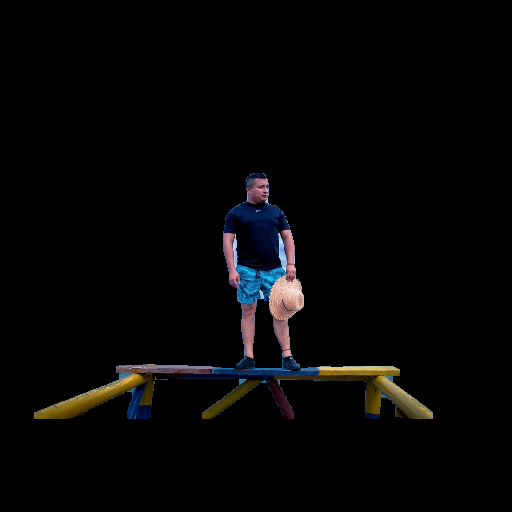
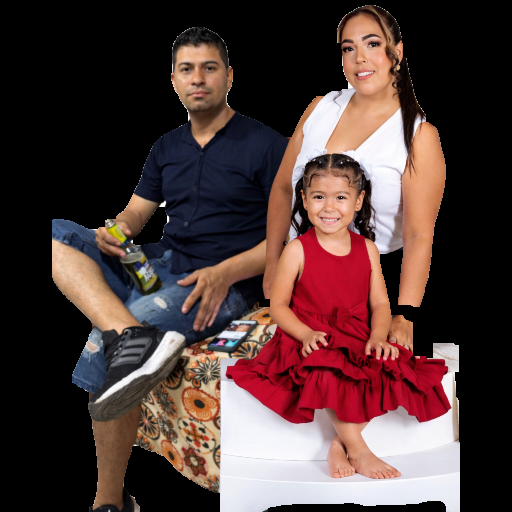
Image preprocessing was added to handle the image input request and resizing before it enters the neural network. Currently, we've created a system to ensure this preprocessing is the same one we'll use to create the images for training the network.

diff --git a/src/preprocessing.py b/src/preprocessing.py
@@ -1,15 +1,49 @@
 import  os
 import cv2
 import numpy as np
+import tkinter as tk
+from tkinter import filedialog
 from segment_anything import sam_model_registry, SamPredictor
+
+#Request a ticket
+# Ocultar ventana principal de tkinter
+root = tk.Tk()
+root.withdraw()
+
+# Abrir explorador de archivos
+INPUT_IMAGE = filedialog.askopenfilename(
+    title="Selecciona una imagen",
+    filetypes=[("Imágenes", "*.png *.jpg *.jpeg")]
+)
+if not INPUT_IMAGE:
+    print("No se seleccionó ninguna imagen.")
+    exit()
+
+# Cargar imagen
+image = cv2.imread(INPUT_IMAGE)
+if image is None:
+    print("Error al leer la imagen.")
+    exit()
+print("Imagen cargada:", INPUT_IMAGE)
+
+# OUTPUT
+OUTPUT_DIR = "data/input_segmentation/"
+os.makedirs(OUTPUT_DIR, exist_ok=True)
+
+filename = "foto.png"
+output_path = os.path.join(OUTPUT_DIR, filename)
+cv2.imwrite(output_path, image) 
+
 
 # Paths definition
 CHECKPOINT = "segment_anything\sam_vit_h_4b8939.pth"
-INPUT_IMAGE = "data/input_segmentation/primera.png"
-OUTPUT_IMAGE = "data/output_segmentation/primera.png"
+INPUT_IMAGE = "data/input_segmentation/foto.png"
+OUTPUT_IMAGE = "data/output_segmentation/foto.png"
 OUTPUT = "data/input_train/"
 OUTPUT_OUTPUT_IMAGE = "data/output_train/"
 os.makedirs(OUTPUT, exist_ok=True)
+
+save_index = 1
 
 #We imported the image
 image_bgr = cv2.imread(INPUT_IMAGE)
@@ -44,7 +78,15 @@ predictor.set_image(image_rgb)
 masks_stack = []  # key to undo
 mask_total = np.zeros(image_bgr.shape[:2], dtype=np.uint8)
 
-#reconstruction
+# convert number to name
+def number_to_name(n):
+    names = [
+        "primera", "segunda", "tercera", "cuarta", "quinta",
+        "sexta", "séptima", "octava", "novena", "décima"
+    ]
+    return names[n - 1] if n <= len(names) else f"imagen_{n}"
+
+# reconstruction
 def rebuild_mask():
     global mask_total
     mask_total = np.zeros_like(mask_total)
@@ -111,11 +153,17 @@ while True:
     # Pressing save
     elif key == ord('s'):
 
-        cv2.imwrite(f"{OUTPUT}mascara.png", mask_total)
+        name = number_to_name(save_index)
+        input_path = os.path.join(OUTPUT, f"{name}mask.png")
+        input_mask_path = os.path.join(OUTPUT, f"{name}.png")
+        output_path = os.path.join(OUTPUT_OUTPUT_IMAGE, f"{name}.png")
+        cv2.imwrite(input_path, mask_total)
         segmented = cv2.bitwise_and(image_bgr, image_bgr, mask=mask_total)
-        cv2.imwrite(f"{OUTPUT}primera.png", segmented)
-        cv2.imwrite(f"{OUTPUT_OUTPUT_IMAGE}primera.png", output_image_bgr)        
-        print("cropped image saved")
+        cv2.imwrite(input_mask_path, segmented)
+        cv2.imwrite(output_path, output_image_bgr)
+        print(f"Guardado: {name}")
+
+        save_index += 1     
 
     # Pressing go out
     elif key == 27:
